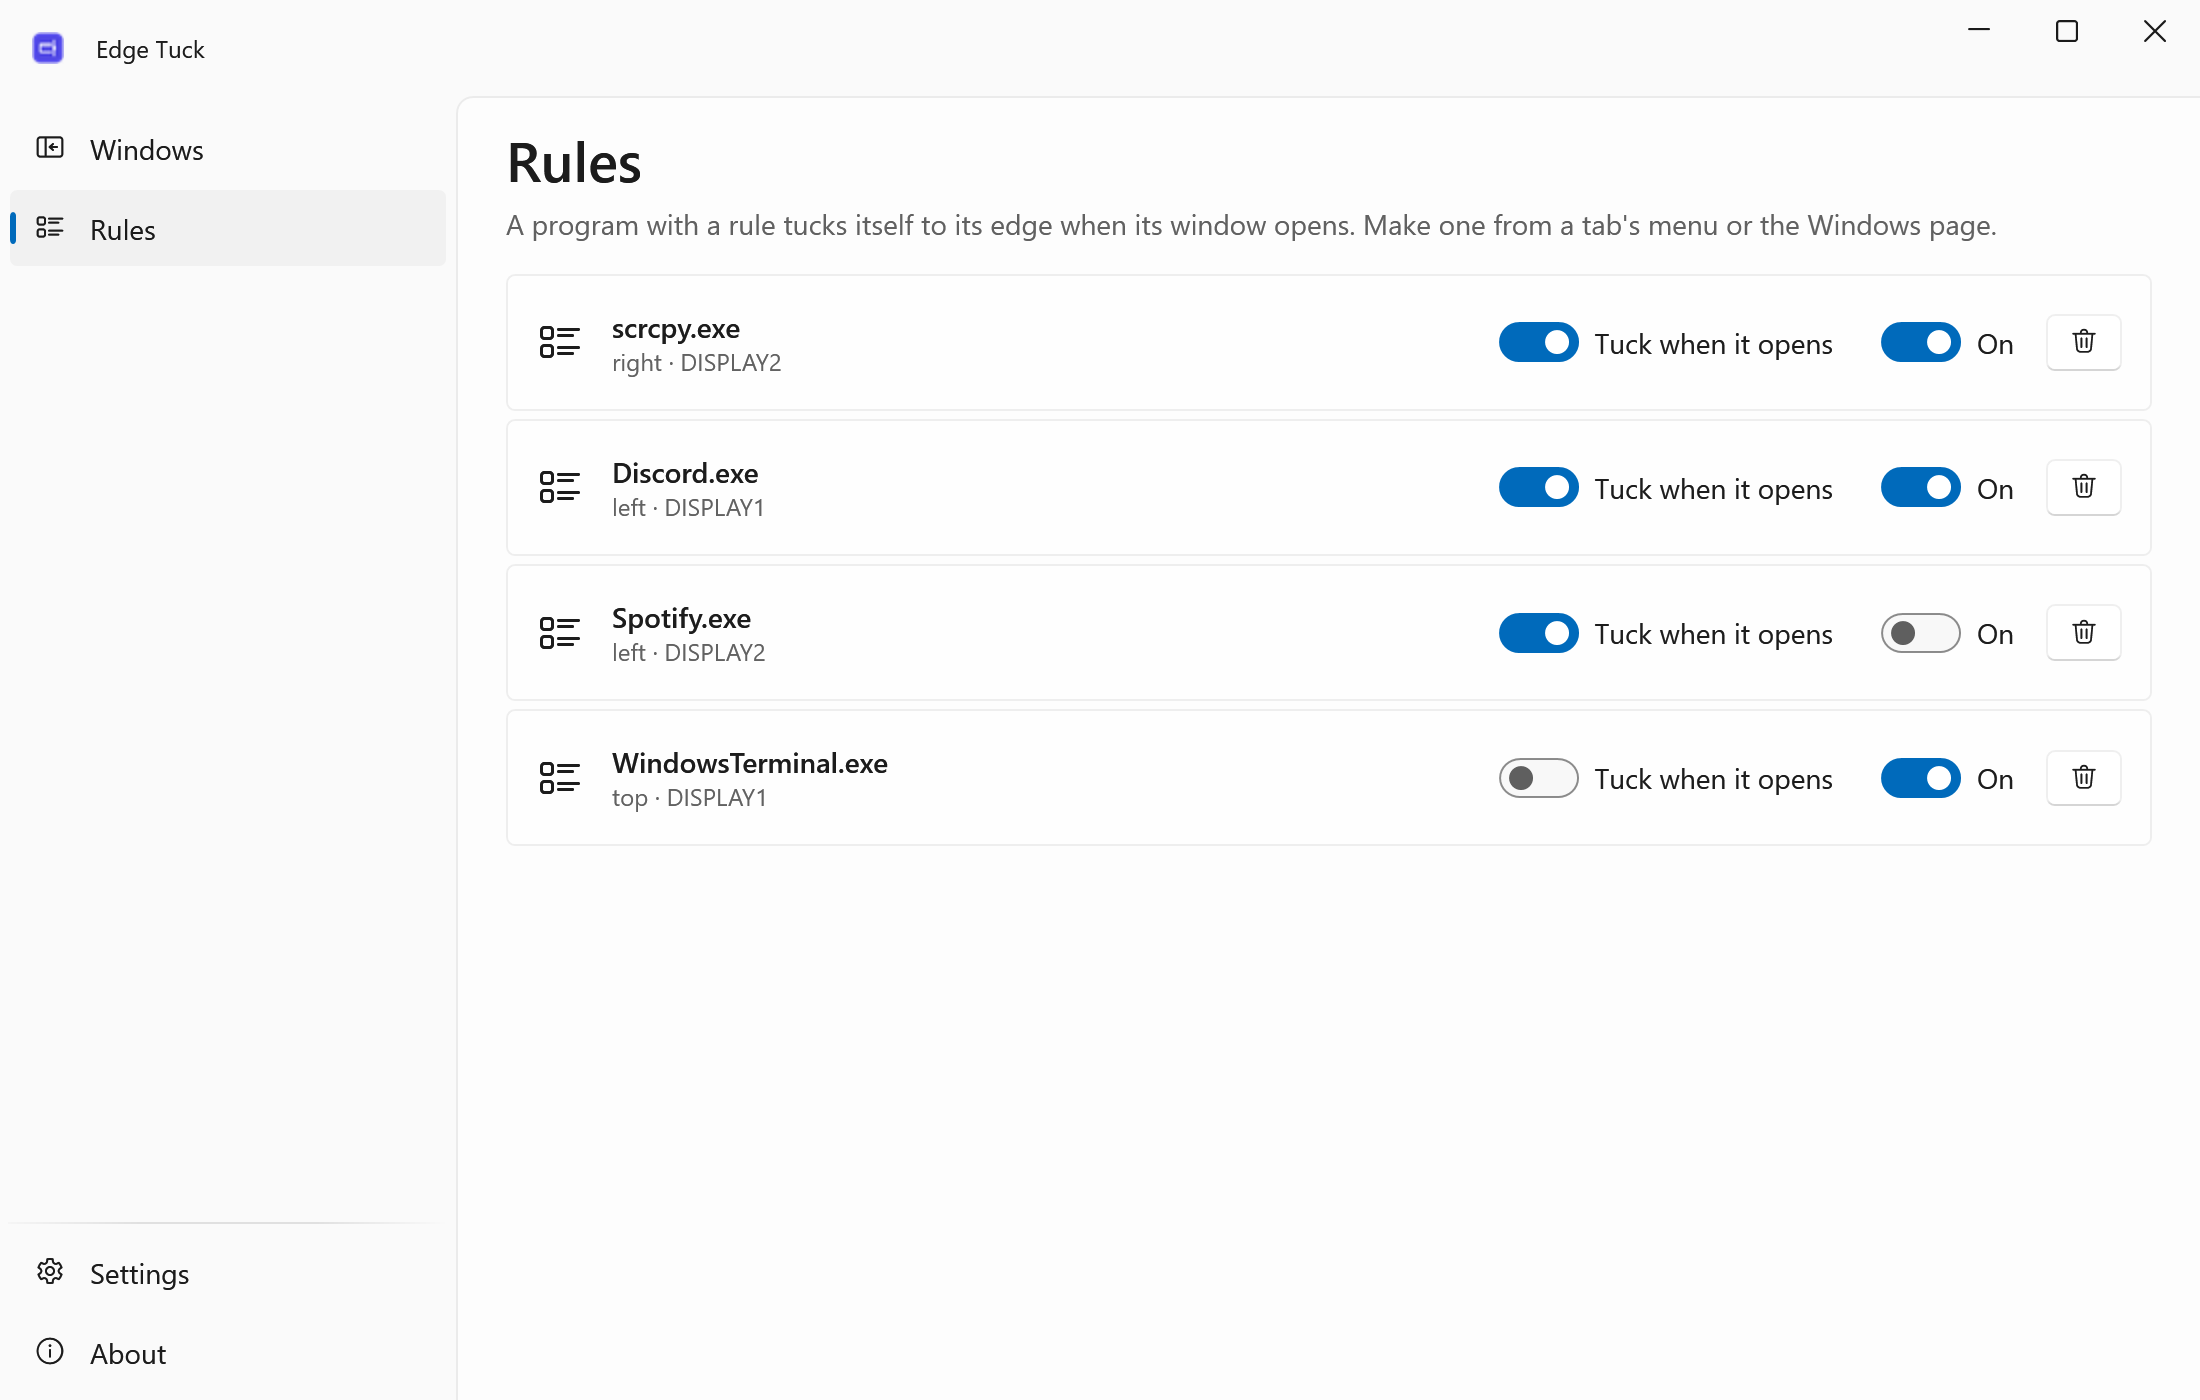
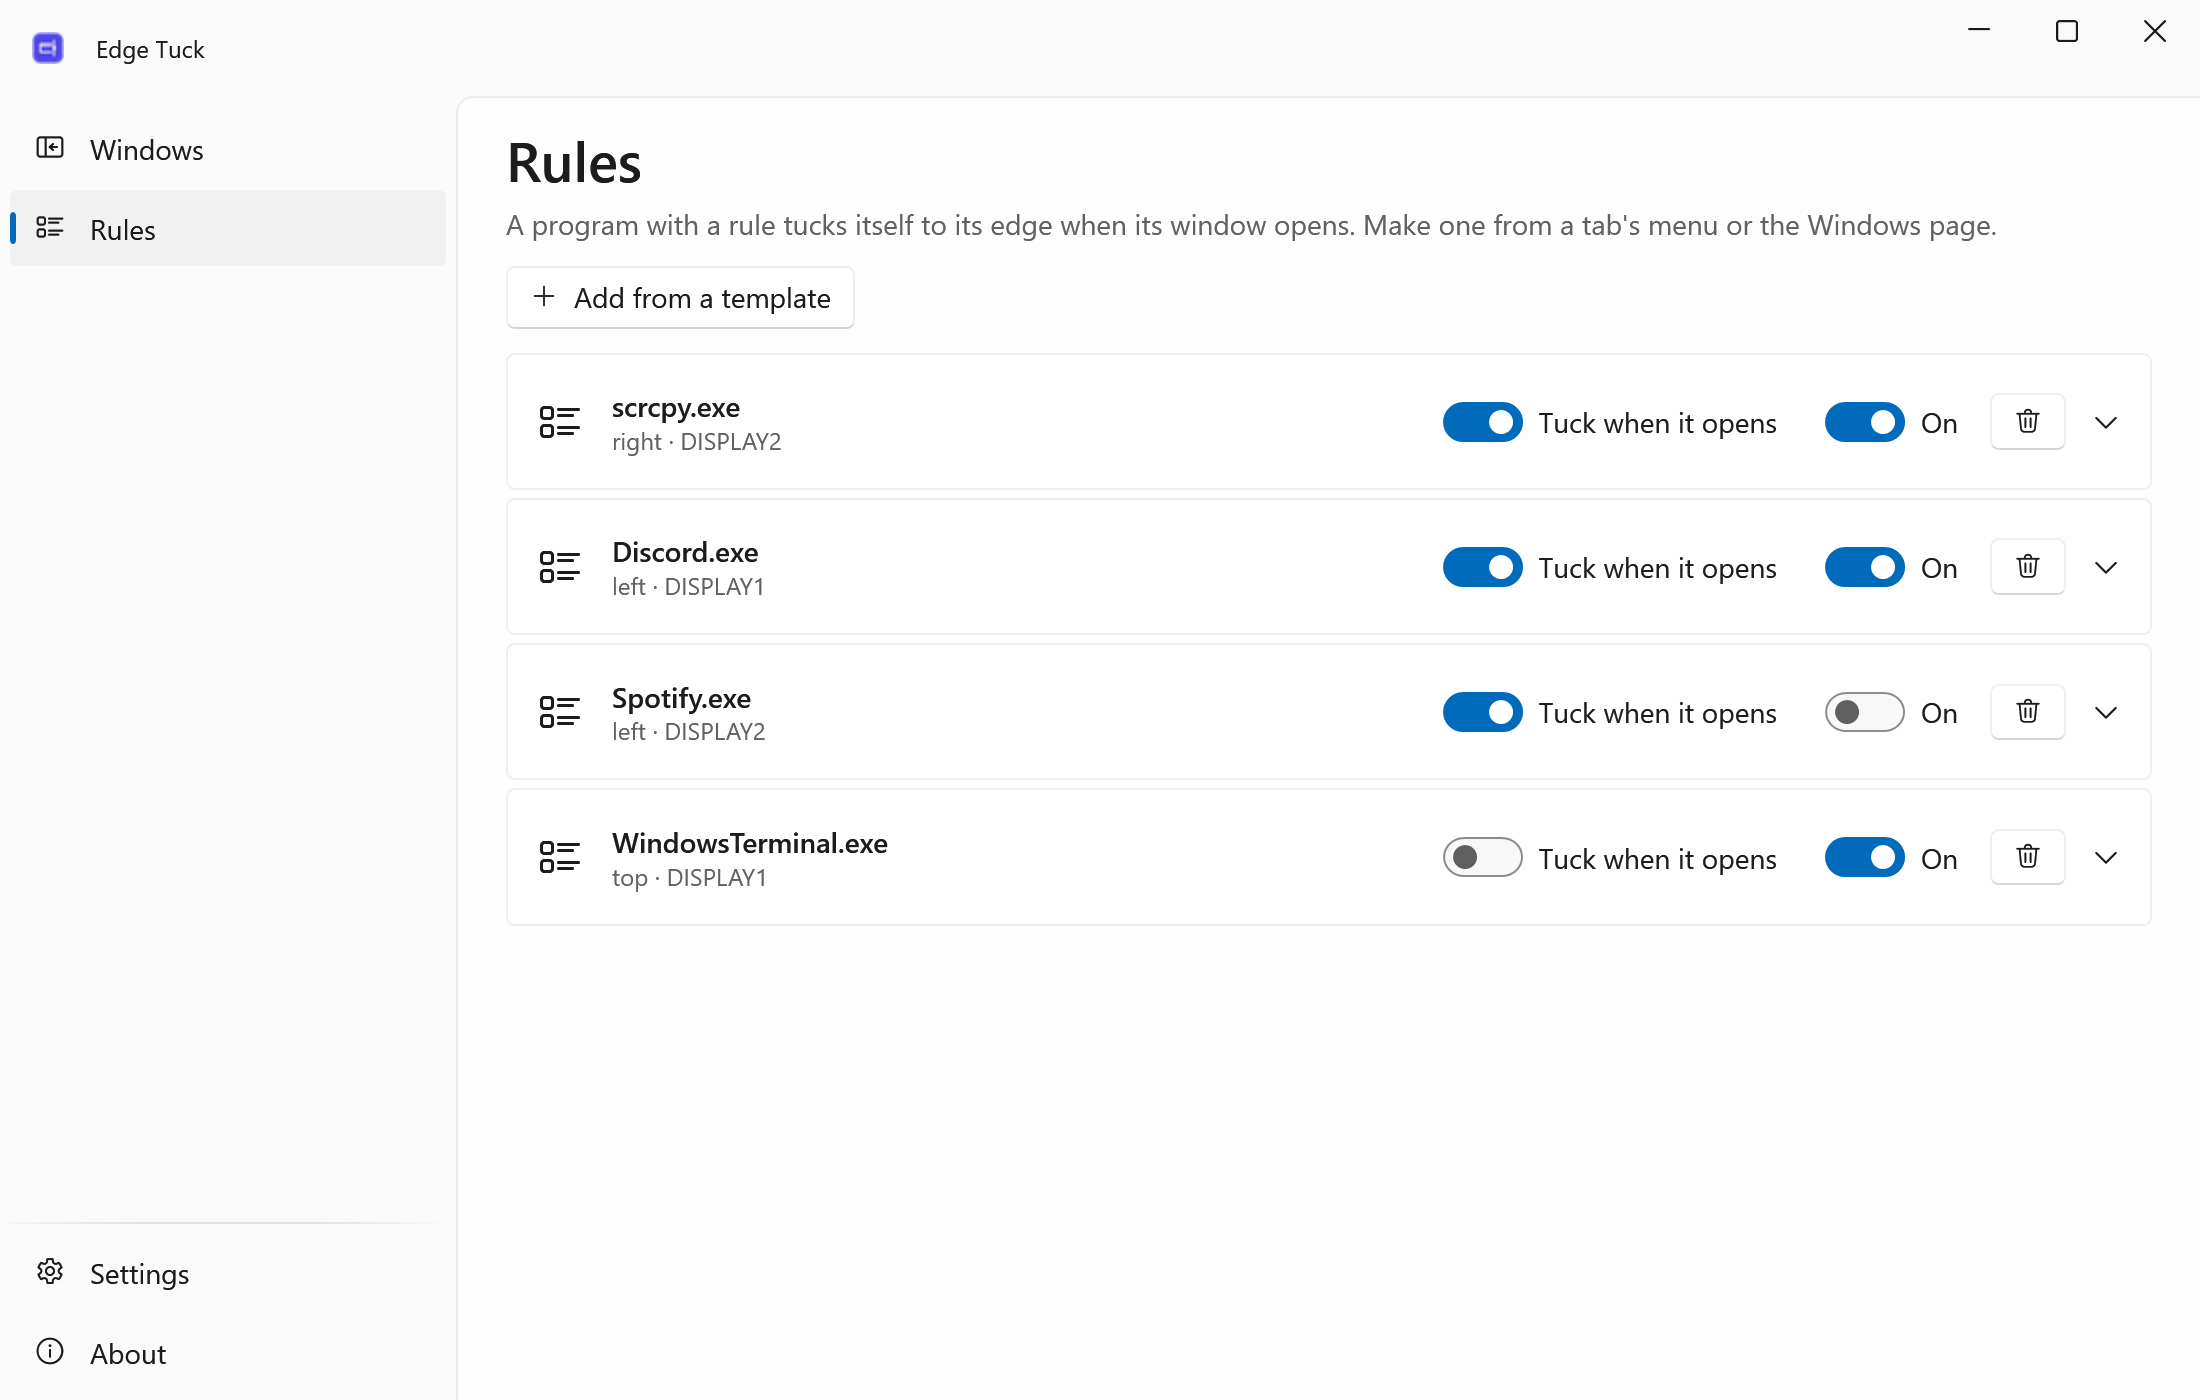
README and screenshots for 1.0

diff --git a/README.md b/README.md
@@ -27,11 +27,12 @@ Edge Tuck slides such a window behind the screen edge and leaves a thin tab ther
 ## Features
 
 - **Hotkey or drag** — `Ctrl+Win+Alt+←/→/↑/↓`, or drag a window past the left, right or bottom edge; a thin tab stays on the edge.
-- **Peek and use** — hover the tab to peek, click it to work in the window, move away and it slides back.
-- **Rules** — scrcpy, a chat, music or a terminal tuck themselves to their edge when they open.
+- **Peek and use** — hover the tab to peek (or click only, if you like), click it to work in the window, move away and it slides back.
+- **Rules** — scrcpy, a chat, music or a terminal tuck themselves to their edge when they open; a title filter, a minimum size and a key to show or hide the window (quake mode for any program).
 - **Out of the way in games** — tabs disappear while a fullscreen app is in front.
 - **Never loses a window** — a journal written before every move and a guard process bring everything back, even after a crash.
-- **Multi-monitor aware** — down to the free part of an edge (a portrait monitor next to an ultrawide) and mixed DPI. No admin, no telemetry, everything local.
+- **Tabs that talk** — a tab lights up when its window wants attention; drag a file onto it and the window comes out; drag the tab along the edge, show the program's icon on it.
+- **Multi-monitor aware** — down to the free part of an edge (a portrait monitor next to an ultrawide), a click tab even on the edge between two monitors, mixed DPI, virtual desktops. No admin, no telemetry, everything local.
 
 ## See it in action
 
@@ -49,8 +50,8 @@ Edge Tuck slides such a window behind the screen edge and leaves a thin tab ther
 Edge Tuck injects nothing into other programs and never hides their windows. It only moves a window past the outer edge of the screen,
 keeps its own small tab next to it and writes a journal before every move. That is why windows come back even after a crash or a power cut.
 
-Edges are counted by parts: on two monitors side by side the shared edge is not used, and on a portrait monitor next to an ultrawide
-only the part of its edge below the seam is free. A window that does not fit there is not tucked, and a note says how much room is free.
+Edges are counted by parts: on a portrait monitor next to an ultrawide only the part of its edge below the seam is free for a hover tab.
+On the part shared with the other monitor the tab opens by click, and the window waits behind an outer edge until then.
 
 ## Download
 
@@ -73,6 +74,8 @@ Try it: click a window and press `Ctrl+Win+Alt+←`, then point at the tab on th
 | Alt+Tab or a taskbar click | A tucked window comes out and stays |
 | The same shortcut again on a window that is out | Back to normal |
 | Right-click the tab | Return the window, or "Always tuck this program here" |
+| Drag the tab along the edge | The window moves along with it |
+| Drag a file onto the tab | The window comes out to take it |
 
 ## Settings
 
@@ -86,7 +89,10 @@ Try it: click a window and press `Ctrl+Win+Alt+←`, then point at the tab on th
 | Tab size | 6 × 64 DIP | Grows with the monitor's scale |
 | Drag past the edge to tuck | on, 50 % | Left, right and bottom edges; this much of the window must be behind the edge |
 | Hide tabs while a fullscreen app is in front | on | Games and fullscreen video |
-| Rules | none | "Always tuck this program here", made from a tab's menu |
+| Slide out when the mouse rests on a tab | on | Off: tabs open by click only |
+| Tabs on edges shared with another monitor | on, open by click | The window waits behind an outer edge and appears at once |
+| Tab with the program's icon | off | A wider tab with the icon |
+| Rules | none | "Always tuck this program here", from a tab's menu or a template (scrcpy, Discord, Spotify, Windows Terminal); title filter, minimum size, own key |
 | Language, theme | Windows | English or Russian, light or dark |
 | Start with Windows | off | Rules work while Edge Tuck runs |
 | Start menu shortcut | on when the exe is in `%LOCALAPPDATA%\Programs\EdgeTuck\` | |
@@ -103,10 +109,10 @@ Settings, the journal of tucked windows (`tucked.json`) and logs live in `%APPDA
 - Or press `Alt+Space` → **Move**, press an arrow key and move the mouse.
 </details>
 
-<details><summary>Why can't I tuck a window to the edge between my two monitors?</summary>
+<details><summary>What happens on the edge between my two monitors?</summary>
 
-The mouse crosses that edge every time it goes from one monitor to the other, so a hover tab there would pop windows out all the time.
-Edge Tuck uses outer edges only, down to the free part of an edge. A click-only tab on a shared edge is planned for 1.0.
+The mouse crosses that edge every time it goes from one monitor to the other, so a tab there opens by click, not by hover (you can change that in Settings).
+The window waits behind an outer edge of its monitor and appears at the shared edge at once.
 </details>
 
 <details><summary>"The window runs as administrator: Edge Tuck cannot move it"</summary>
